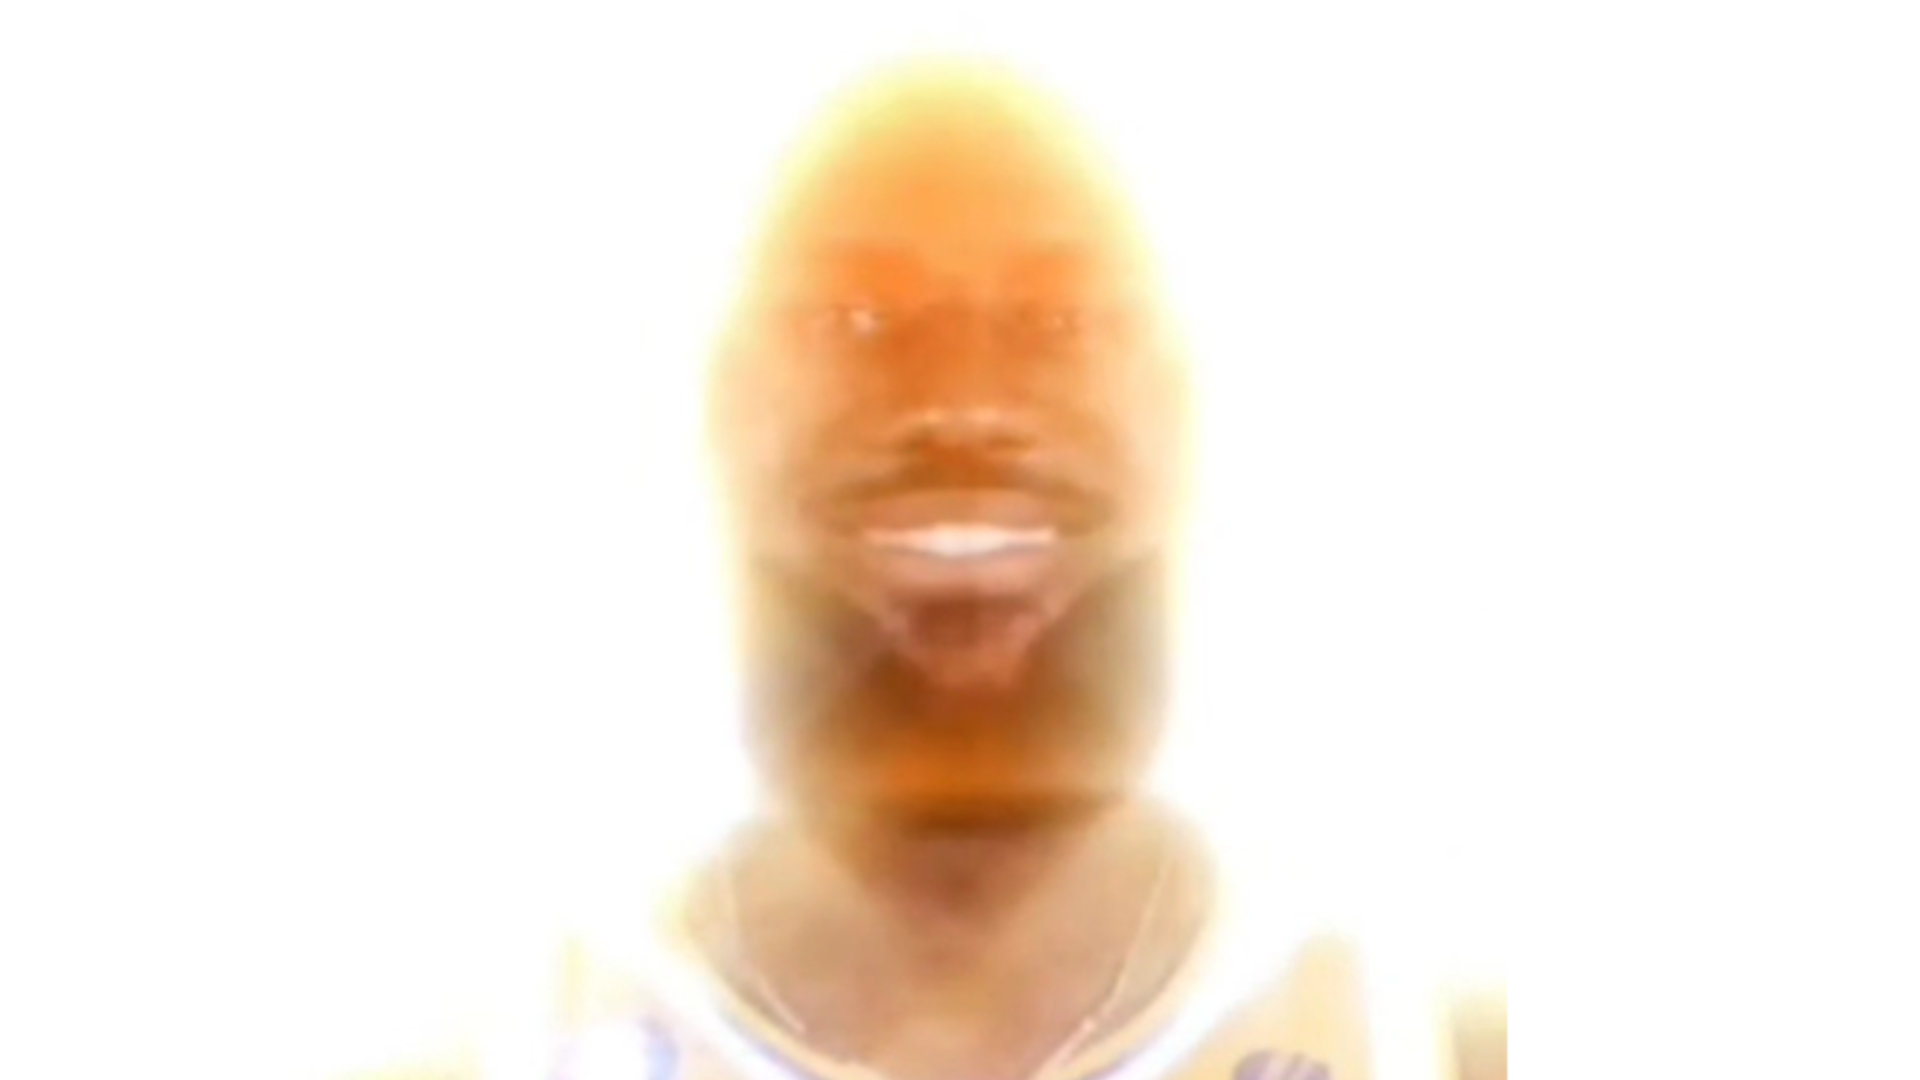
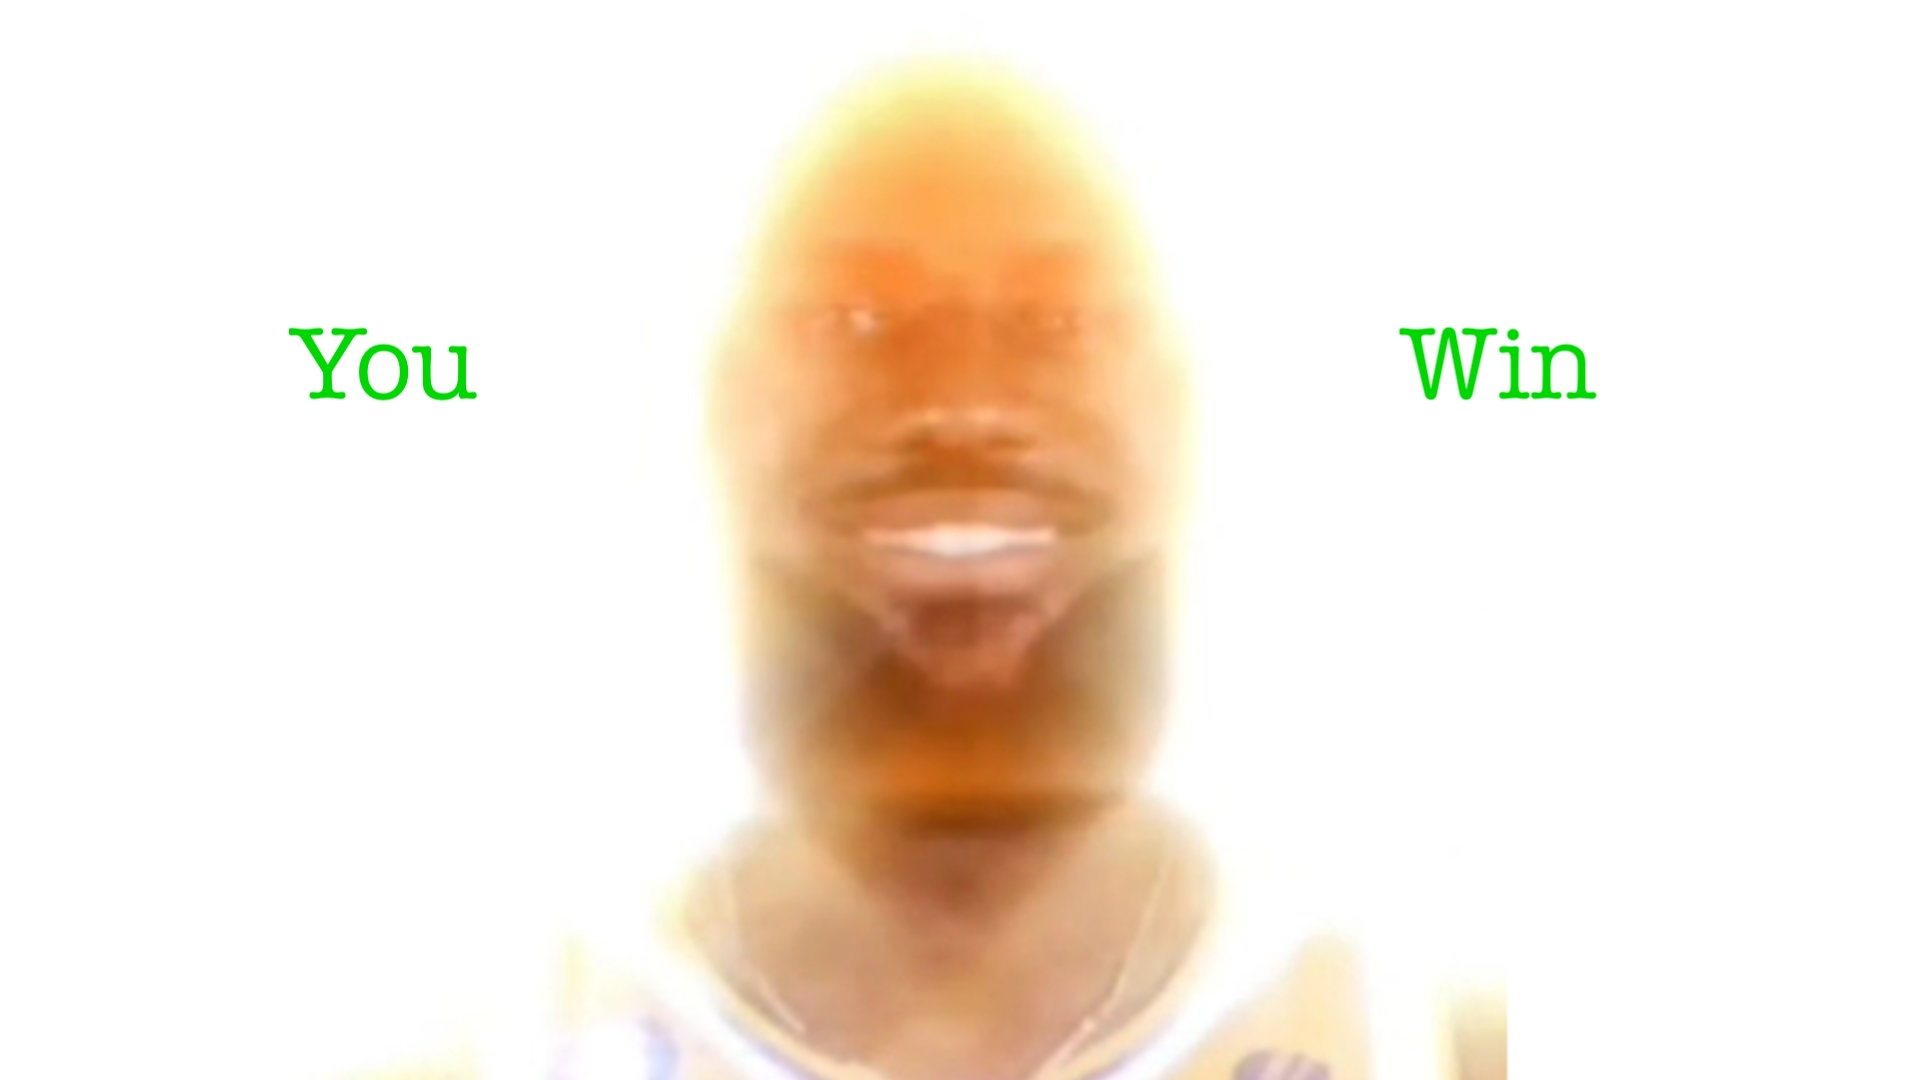
insect done

Changed region(s): [[0.7188, 0.3056, 0.8438, 0.3972], [0.1562, 0.3056, 0.25, 0.3667]]

diff --git a/css/insect.css b/css/insect.css
@@ -106,13 +106,13 @@ h1 {
     line-height: 1.7;
     width: 100%;
     background-color: rgba(0,0,0, 0.5);
-    z-index: 100;
+    z-index: 2;
     padding: 20px;
     text-align: center;
     position: absolute;
     top: 0;
     left: 50%;
-    transform: translate(-50%, 750%);
+    transform: translate(-50%, 950%);
     transition: transform 0.4s ease-in;
 }
 
@@ -132,10 +132,15 @@ h1 {
     position: absolute;
     transform: translate(-50%, -50%)scale(1);
     transition: transform 0.3s ease-in-out;
+    z-index: 1;
 }
 
 .insect.caught {
     transform: translate(-50%, -50%) scale(0);
+}
+
+.insect.win {
+    opacity: 0;
 }
 
 .insect img {
@@ -143,13 +148,30 @@ h1 {
     height: 100px;
 }
 
-h6 img {
-    width: 90vw;
-    height: 80vh;
+.lebron img {
+    width: 1400px;
+    height: 700px;
     opacity: 0;
+    position: absolute;
+    left: 10px;
+    top: 30px;
 }
 
-h6.visible {
+.lebron.win img {
     opacity: 1;
+    z-index: 4;
 }
 
+.lebaron img {
+    opacity: 0;
+    position: absolute;
+    height: 700px;
+    width: 500px;
+    top: 30px;
+    left: 470px;
+}
+
+.lebaron.lose img {
+    opacity: 1;
+    z-index: 7;
+}

diff --git a/js/insect.js b/js/insect.js
@@ -5,6 +5,8 @@ const start_btn = document.getElementById('start-btn')
 const timeEl = document.getElementById('time')
 const scoreEl = document.getElementById('score')
 const message = document.getElementById('message')
+const lebron = document.getElementById('lebron')
+const lebaron = document.getElementById('lebaron')
 let seconds = 0
 let score = 0
 let selected_insect = {}
@@ -69,8 +71,21 @@ function addInsects() {
 
 function increaseScore() {
     score++
+    let s = seconds % 60
     if (score > 19) {
         message.classList.add('visible')
+    }
+    if (score > 59 && s < 31) {
+        lebron.classList.add('win')
+        pause()
+    }
+    if (score < 60 && s > 30) {
+        lebaron.classList.add('lose')
+        pause()
+    }
+    if (score == 0 && s > 30) {
+        lebaron.classList.add('lose')
+        pause()
     }
     scoreEl.innerHTML = `Score: ${score}`
 }
@@ -83,8 +98,3 @@ function getRandomLocation() {
     return {x, y}
 }
 
-function winGame() {
-    if (score == 10) {
-        
-    }
-}

diff --git a/insect.html b/insect.html
@@ -47,8 +47,11 @@
             Are you annoyed yet? <br>
             You are playing an impossible game!!!
         </h5>
-        <h6 id="lebron" class="lebron">
+        <h4 id="lebron" class="lebron">
             <img src="images/Lebron.jpg" alt="Lebron">
+        </h4>
+        <h6 id="lebaron" class="lebaron">
+            <img src="images/Lebaron.jpg" alt="Lebaron">
         </h6>
 
     </div>
